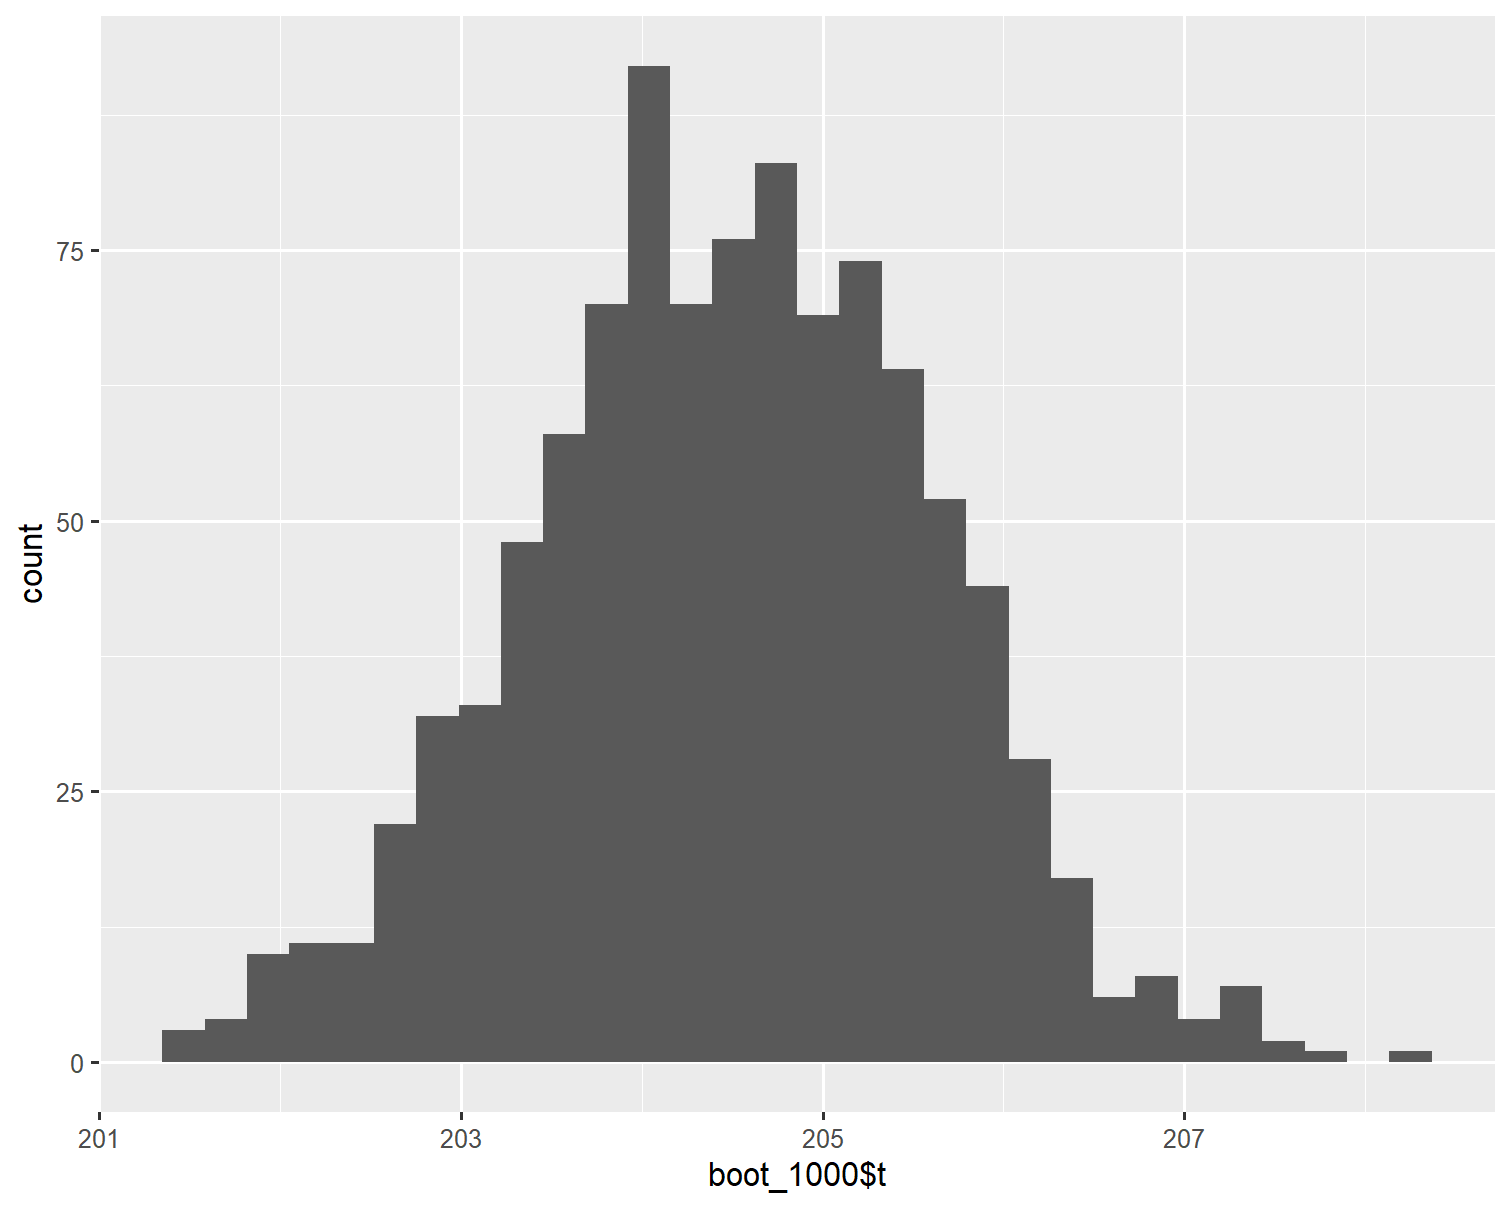
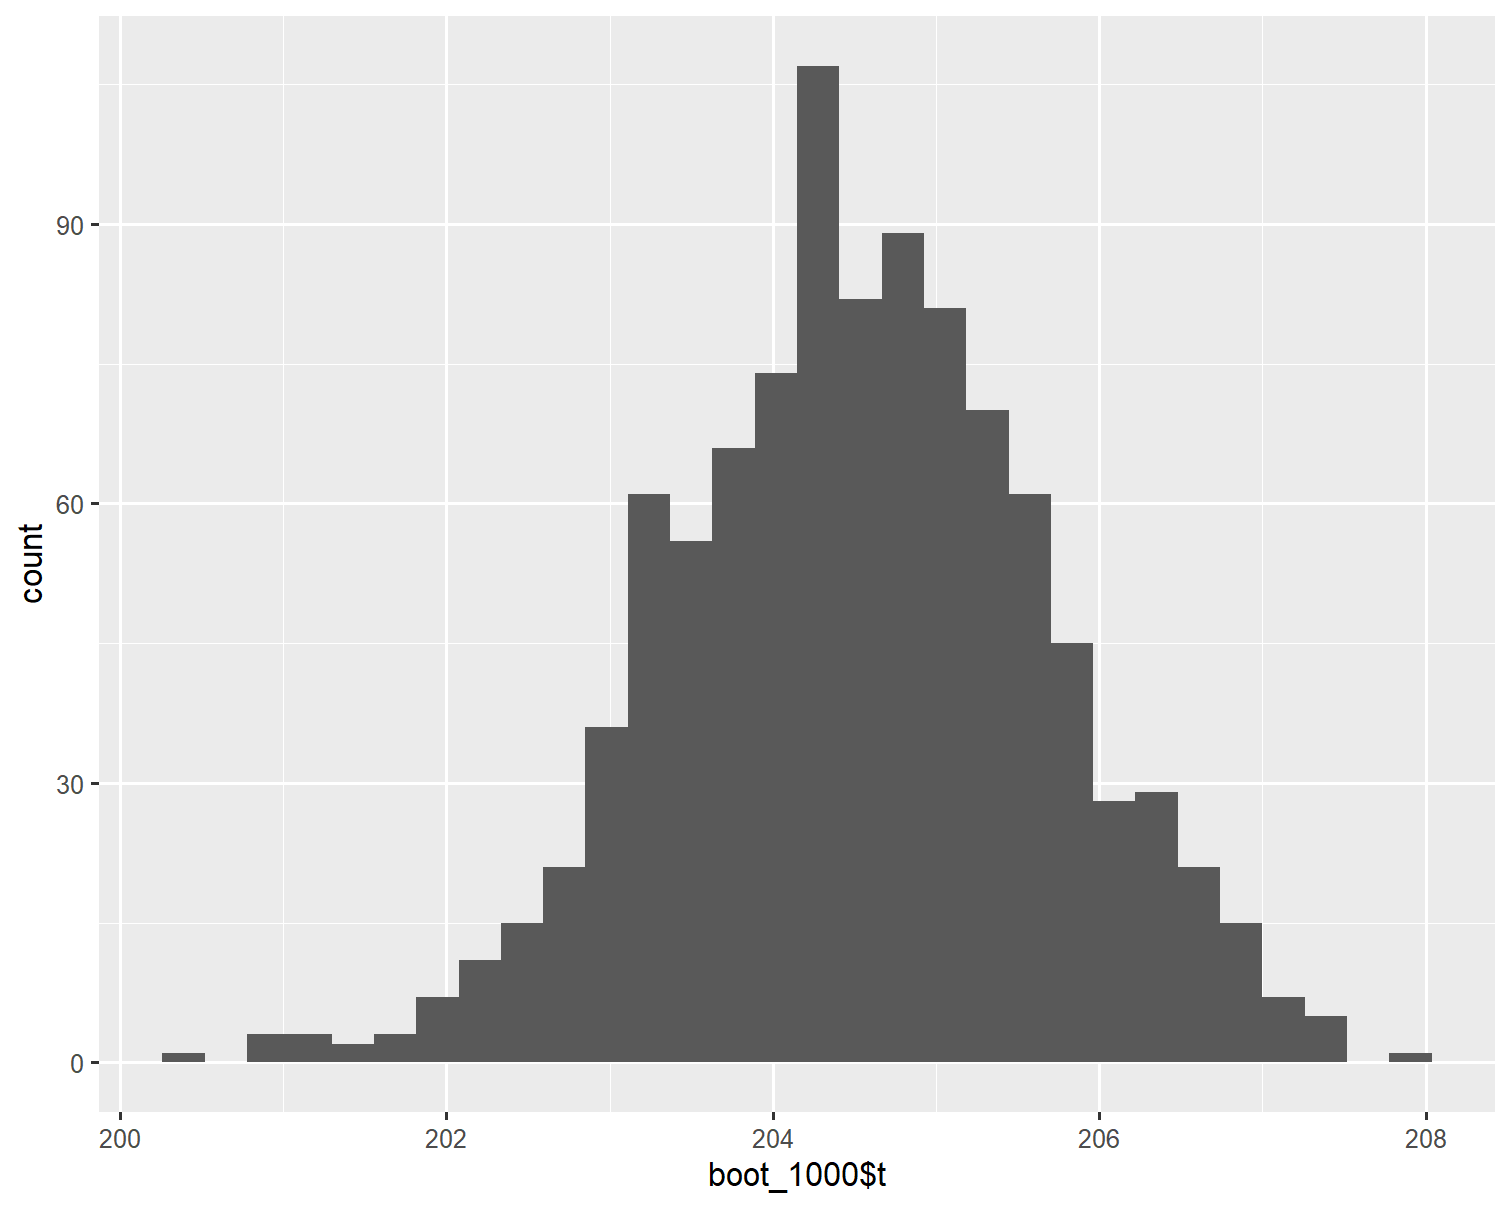
updated with slido

diff --git a/slides/intro_stats.html b/slides/intro_stats.html
@@ -4,7 +4,7 @@
     <title>Intro to stats</title>
     <meta charset="utf-8" />
     <meta name="author" content="Philip Leftwich" />
-    <meta name="date" content="2023-01-26" />
+    <meta name="date" content="2023-01-30" />
     <script src="libs/header-attrs/header-attrs.js"></script>
     <link href="libs/remark-css/default.css" rel="stylesheet" />
     <script src="libs/htmlwidgets/htmlwidgets.js"></script>
@@ -42,7 +42,7 @@ class: title-slide, left, top
 
 layout: true
 
-&lt;div class="my-footer"&gt;&lt;span&gt;Philip Leftwich - 5023Y Courses Slido.com #3598190&lt;/span&gt;&lt;/div&gt;
+&lt;div class="my-footer"&gt;&lt;span&gt;Philip Leftwich - 5023Y Courses Slido.com #3163611&lt;/span&gt;&lt;/div&gt;
 
 
 
@@ -234,8 +234,8 @@ Each time we take a sample, they will vary slightly
 
 .right-plot[
 
-<div id="htmlwidget-4a785f086a095d8a3191" style="width:95%;height:403.2px;" class="grViz html-widget"></div>
-<script type="application/json" data-for="htmlwidget-4a785f086a095d8a3191">{"x":{"diagram":"digraph {\n  \ngraph[layout = dot]\n\na[label = \"Population mean = 3\"]\nb[label = \"Sample mean = 3\"]\nc[label = \"Sample mean = 4\"]\nd[label = \"Sample mean = 5\"]\ne[label = \"Sample mean = 1\"]\nf[label = \"Sample mean = 2\"]\ng[label = \"Sample mean = 4\"]\n\na -> b\na -> c\na -> d\na -> e\na -> f\na -> g\n\n\n\n\n}","config":{"engine":"dot","options":null}},"evals":[],"jsHooks":[]}</script>
+<div id="htmlwidget-8d976c12873680a35165" style="width:95%;height:403.2px;" class="grViz html-widget"></div>
+<script type="application/json" data-for="htmlwidget-8d976c12873680a35165">{"x":{"diagram":"digraph {\n  \ngraph[layout = dot]\n\na[label = \"Population mean = 3\"]\nb[label = \"Sample mean = 3\"]\nc[label = \"Sample mean = 4\"]\nd[label = \"Sample mean = 5\"]\ne[label = \"Sample mean = 1\"]\nf[label = \"Sample mean = 2\"]\ng[label = \"Sample mean = 4\"]\n\na -> b\na -> c\na -> d\na -> e\na -> f\na -> g\n\n\n\n\n}","config":{"engine":"dot","options":null}},"evals":[],"jsHooks":[]}</script>
 
 ]
 
@@ -418,8 +418,8 @@ boot_1000
 ## 
 ## 
 ## Bootstrap Statistics :
-##     original      bias    std. error
-## t1*  204.506 -0.01335714     1.10781
+##     original     bias    std. error
+## t1*  204.506 0.01985119    1.156602
 ```
 
 ]
@@ -464,7 +464,7 @@ boot.ci(boot_1000,
 ## 
 ## Intervals : 
 ## Level     Percentile     
-## 95%   (202.3, 206.7 )  
+## 95%   (202.2, 206.8 )  
 ## Calculations and Intervals on Original Scale
 ```
 
